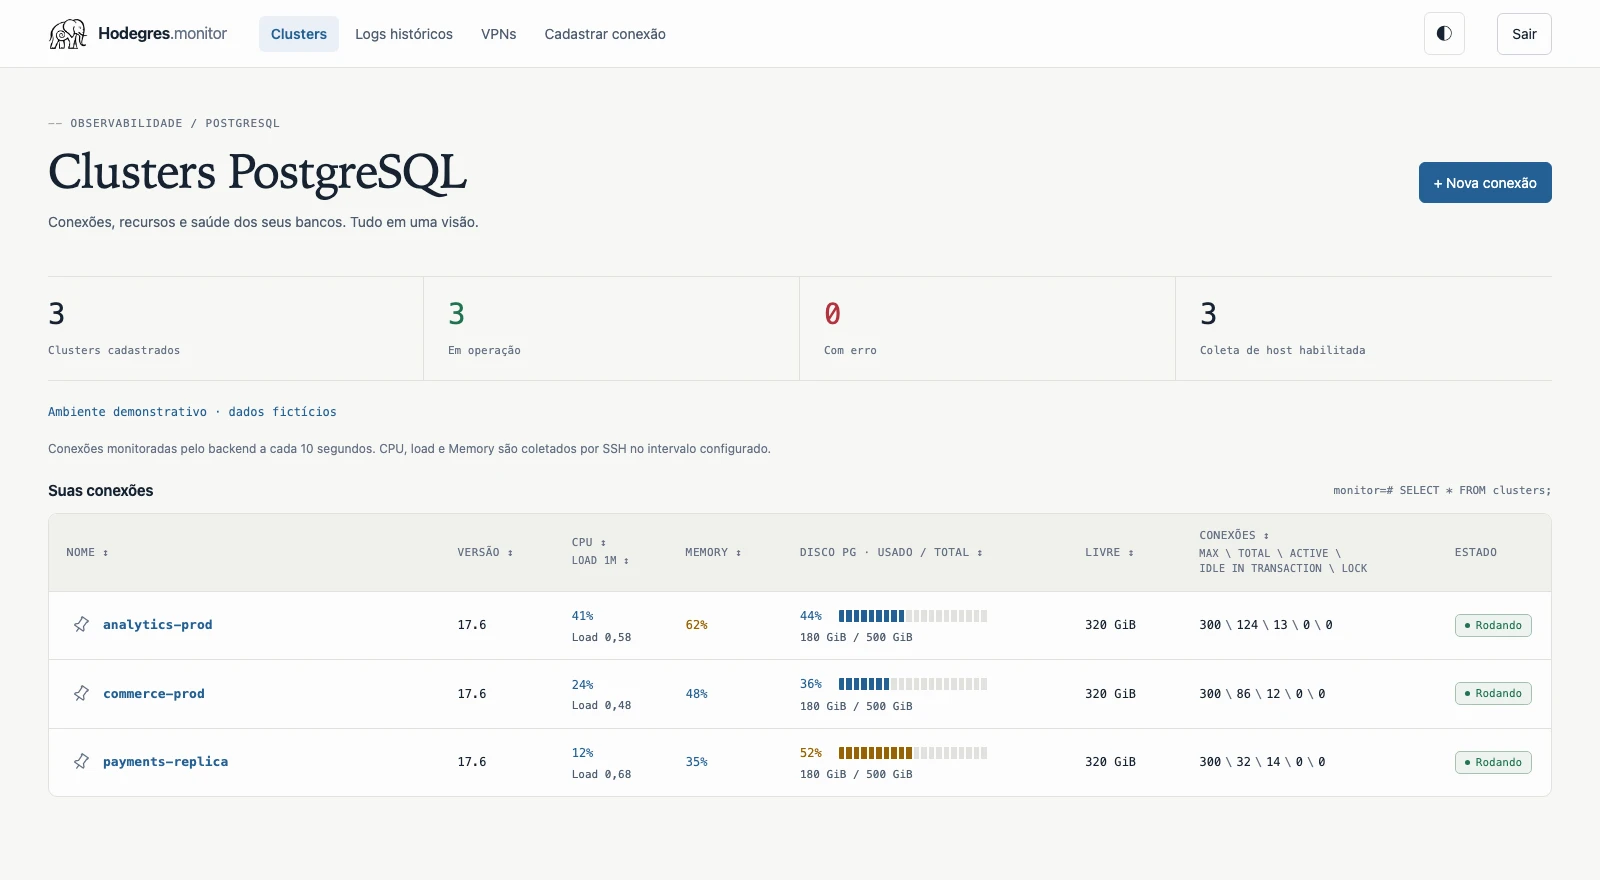
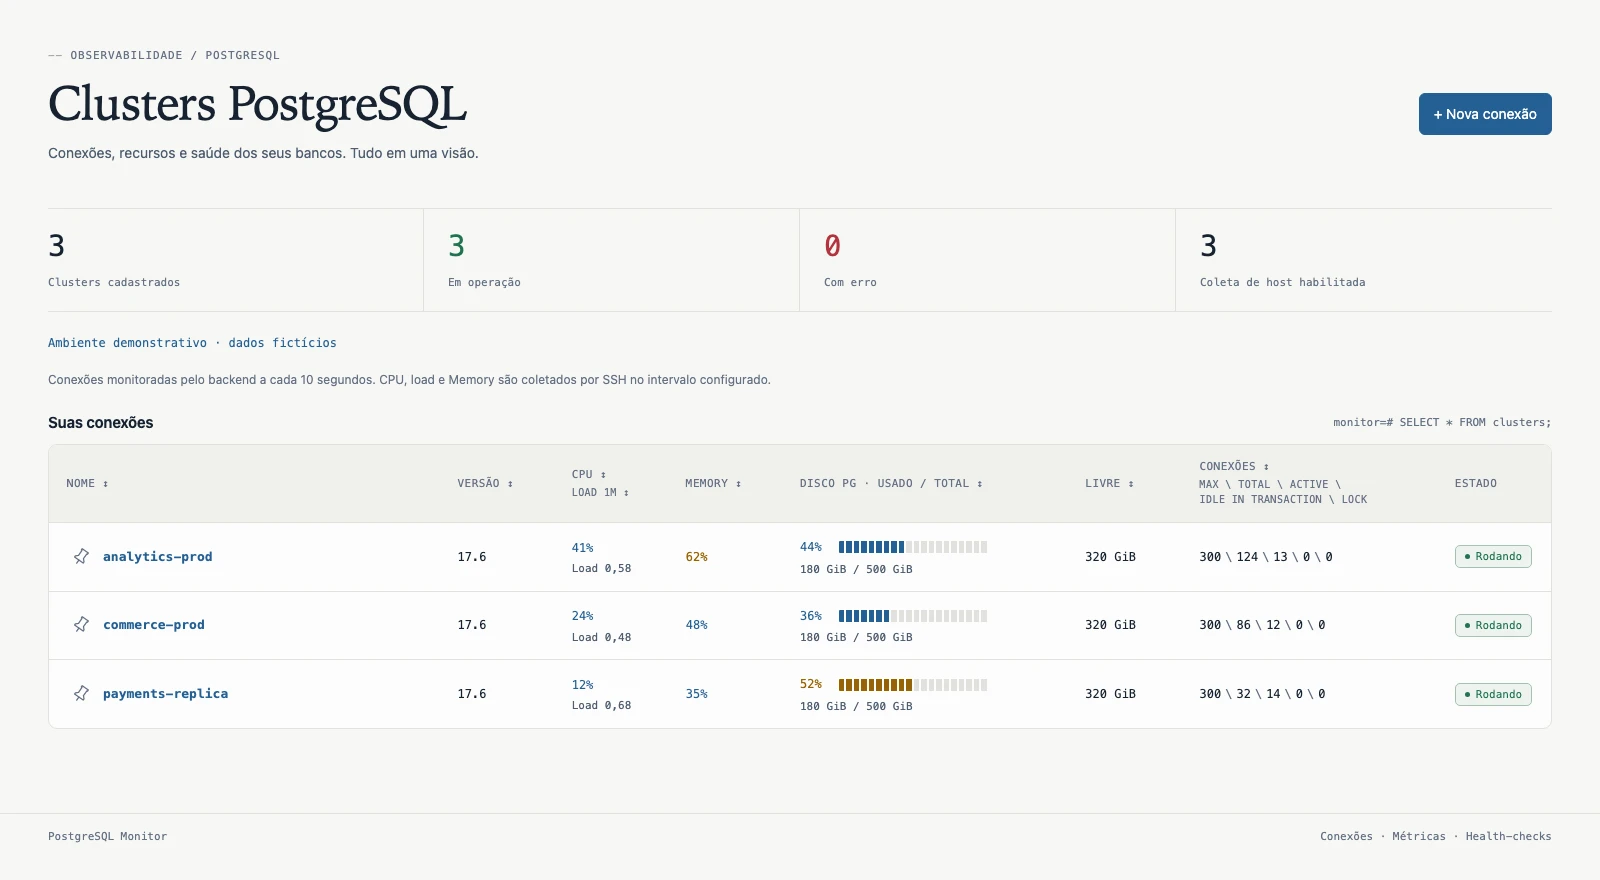
Expand monitor gallery with log and health-check examples

diff --git a/index.html b/index.html
@@ -19,7 +19,7 @@
   <a class="skip" href="#conteudo">Pular para o conteúdo</a>
   <header class="header">
     <a class="brand" href="#top" aria-label="Hodegres, início"><img src="assets/hodegres-logo.png" alt="" width="38" height="38">hodegres<span>.</span></a>
-    <nav aria-label="Navegação principal"><a href="#consultoria">consultoria</a><a href="#plataforma">hodegres.monitor</a><a href="#propostas">propostas</a></nav>
+    <details class="site-menu"><summary>Explorar <span aria-hidden="true">+</span></summary><nav aria-label="Navegação principal"><a href="#consultoria">Consultoria</a><a href="#plataforma">Hodegres.monitor</a><a href="#propostas">Propostas</a><a href="#contato">Contato</a></nav></details>
     <a class="button small" href="#contato">Vamos conversar <span aria-hidden="true">↗</span></a>
   </header>
   <main id="conteudo">
@@ -43,8 +43,13 @@
     </section>
     <section class="platform-section" id="plataforma"><div class="wrap section">
       <div class="platform-intro"><div><p class="eyebrow">02 / HODEGRES.MONITOR</p><h2>Decisões melhores<br>começam com visibilidade.</h2></div><div><span class="outline-tag">EM DESENVOLVIMENTO ATIVO</span><p>Nossa plataforma reúne informações dos clusters e ferramentas de investigação para apoiar o trabalho técnico. Do consumo de recursos ao histórico de saúde do database.</p></div></div>
-      <div class="platform-content"><div class="frame-selector" role="tablist" aria-label="Telas do Hodegres.monitor"><button type="button" id="tab-clusters" role="tab" aria-selected="true" aria-controls="frame-panel" data-frame="clusters"><span>01 / CLUSTERS</span><strong>A operação em uma visão.</strong><span>CPU, memória, disco e conexões. Contexto para identificar onde investigar.</span><span class="tab-arrow" aria-hidden="true">↗</span></button><button type="button" id="tab-health" role="tab" aria-selected="false" aria-controls="frame-panel" data-frame="health" tabindex="-1"><span>02 / HEALTH-CHECK</span><strong>Saúde com histórico.</strong><span>Snapshots do database e seções de análise de configuração, vacuum, fillfactor e bloat.</span><span class="tab-arrow" aria-hidden="true">↗</span></button><p class="platform-note">Também no projeto: consulta de logs históricos, filtros por cluster e investigação por PID.</p></div>
-      <figure class="product-window detail-window" id="frame-panel" role="tabpanel" aria-labelledby="tab-clusters"><div class="window-bar"><span class="window-dots" aria-hidden="true">● ● ●</span><span id="frame-name">hodegres.monitor / clusters</span></div><button class="image-button" id="frame-zoom" type="button" data-image="assets/monitor-clusters.webp" data-caption="Visão de clusters do Hodegres.monitor. Interface real com dados fictícios." aria-label="Ampliar tela selecionada"><img id="frame-image" src="assets/monitor-clusters.webp" alt="Visão dos clusters com métricas demonstrativas." width="1600" height="880" loading="lazy"></button><figcaption>CAPTURA DO PROJETO / DADOS FICTÍCIOS <span>Clique para ampliar ↗</span></figcaption></figure></div>
+      <div class="platform-gallery">
+        <div class="gallery-heading"><div><p class="eyebrow" id="frame-category">01 / CLUSTERS</p><h3 id="frame-title">A operação em uma visão.</h3></div><div class="gallery-controls"><span id="frame-count" aria-live="polite" aria-atomic="true">01 / 07</span><button type="button" id="frame-prev" aria-label="Ver tela anterior">←</button><button type="button" id="frame-next" aria-label="Ver próxima tela">→</button></div></div>
+        <p class="gallery-description" id="frame-description">CPU, memória, disco e conexões. Contexto para identificar onde investigar.</p>
+        <figure class="product-window detail-window" id="frame-panel" role="tabpanel" aria-labelledby="tab-clusters"><div class="window-bar"><span class="window-dots" aria-hidden="true">● ● ●</span><span id="frame-name">hodegres.monitor / clusters</span><span class="demo-label">DEMONSTRAÇÃO</span></div><button class="image-button" id="frame-zoom" type="button" data-image="assets/monitor-clusters.webp" data-caption="Visão de clusters do Hodegres.monitor. Interface real com dados fictícios." aria-label="Ampliar tela selecionada"><img id="frame-image" src="assets/monitor-clusters.webp" alt="Visão dos clusters com métricas demonstrativas." width="1600" height="880" loading="lazy"></button><figcaption>INTERFACE REAL / DADOS FICTÍCIOS <span>Clique para ampliar ↗</span></figcaption></figure>
+        <div class="gallery-tabs" role="tablist" aria-label="Telas do Hodegres.monitor"><button type="button" id="tab-clusters" role="tab" aria-selected="true" aria-controls="frame-panel" data-frame="clusters" tabindex="0"><span class="frame-number">01</span> Clusters</button><button type="button" id="tab-errors" role="tab" aria-selected="false" aria-controls="frame-panel" data-frame="errors" tabindex="-1"><span class="frame-number">02</span> Logs · erros</button><button type="button" id="tab-duration" role="tab" aria-selected="false" aria-controls="frame-panel" data-frame="duration" tabindex="-1"><span class="frame-number">03</span> Logs · duration</button><button type="button" id="tab-health" role="tab" aria-selected="false" aria-controls="frame-panel" data-frame="health" tabindex="-1"><span class="frame-number">04</span> Health-check</button><button type="button" id="tab-vacuum" role="tab" aria-selected="false" aria-controls="frame-panel" data-frame="vacuum" tabindex="-1"><span class="frame-number">05</span> Autovacuum</button><button type="button" id="tab-bloat" role="tab" aria-selected="false" aria-controls="frame-panel" data-frame="bloat" tabindex="-1"><span class="frame-number">06</span> Bloat</button><button type="button" id="tab-settings" role="tab" aria-selected="false" aria-controls="frame-panel" data-frame="settings" tabindex="-1"><span class="frame-number">07</span> Configurações</button></div>
+        <p class="gallery-note">Explore os exemplos. Cada tela usa dados fictícios para mostrar a investigação de erros, consultas demoradas e a saúde do PostgreSQL.</p>
+      </div>
     </div></section>
     <section class="wrap section" id="propostas">
       <div class="section-heading"><p class="eyebrow">03 / FORMAS DE TRABALHAR</p><h2>Uma proposta para<br>o seu momento.</h2><p>Começamos pelo que o seu ambiente precisa. Escopo, prazos e investimento são definidos após uma conversa técnica.</p></div>

diff --git a/app.js b/app.js
@@ -1,8 +1,69 @@
 // Configure a verified contact destination here before using this form for leads.
 const contactEmail = 'contato@hodegres.com';
 const frames = {
-  clusters: {src:'assets/monitor-clusters.webp',name:'clusters',alt:'Visão de clusters do Hodegres.monitor. Interface real com dados fictícios.'},
-  health: {src:'assets/monitor-health.webp',name:'health-check',alt:'Health-check do Hodegres.monitor com indicadores do database. Interface real com dados fictícios.'}
+  "clusters": {
+    "src": "assets/monitor-clusters.webp",
+    "name": "clusters",
+    "category": "CLUSTERS",
+    "title": "A operação em uma visão.",
+    "description": "CPU, memória, disco e conexões. Contexto para identificar onde investigar.",
+    "alt": "Visão de clusters do Hodegres.monitor. Interface real com dados fictícios.",
+    "height": 880
+  },
+  "errors": {
+    "src": "assets/monitor-logs-errors.webp",
+    "name": "logs / erros",
+    "category": "LOGS · ERROS",
+    "title": "Do erro ao contexto.",
+    "description": "Exemplos de chave duplicada, deadlock, timeout e conflitos de transação. Mensagem, aplicação e SQL no mesmo contexto.",
+    "alt": "Logs demonstrativos de erros PostgreSQL, com detalhes de uma chave duplicada, deadlock e timeout. Dados fictícios.",
+    "height": 900
+  },
+  "duration": {
+    "src": "assets/monitor-logs-duration.webp",
+    "name": "logs / duration",
+    "category": "LOGS · DURATION",
+    "title": "Encontre o que está demorando.",
+    "description": "Eventos de duration mostram o tempo registrado no log e a consulta associada. Um ponto de partida para investigar a carga.",
+    "alt": "Logs demonstrativos DURATION com tempos de execução e consultas SQL. Dados fictícios.",
+    "height": 900
+  },
+  "health": {
+    "src": "assets/monitor-health.webp",
+    "name": "health-check / database",
+    "category": "HEALTH-CHECK",
+    "title": "Saúde com histórico.",
+    "description": "Snapshots do database: conexões, cache hit, rollback, distribuição de tuplas e indicadores de I/O.",
+    "alt": "Health-check do database com cache hit, conexões e distribuição de tuplas. Dados fictícios.",
+    "height": 1000
+  },
+  "vacuum": {
+    "src": "assets/monitor-vacuum.webp",
+    "name": "health-check / autovacuum",
+    "category": "AUTOVACUUM",
+    "title": "Manutenção com contexto.",
+    "description": "Tuplas mortas, atividade de atualização e histórico de vacuum ajudam a orientar a revisão de manutenção.",
+    "alt": "Health-check de autovacuum com tabelas, tuplas mortas e histórico de manutenção. Dados fictícios.",
+    "height": 900
+  },
+  "bloat": {
+    "src": "assets/monitor-bloat.webp",
+    "name": "health-check / bloat",
+    "category": "BLOAT DE TABELAS",
+    "title": "Entenda o espaço das tabelas.",
+    "description": "Estimativas de bloat, tamanho do heap e fillfactor para orientar a investigação. Estimativa não é espaço garantido recuperável.",
+    "alt": "Health-check de bloat com estimativas de espaço, heap e fillfactor por tabela. Dados fictícios.",
+    "height": 900
+  },
+  "settings": {
+    "src": "assets/monitor-settings.webp",
+    "name": "health-check / configurações",
+    "category": "CONFIGURAÇÕES",
+    "title": "Configuração também é diagnóstico.",
+    "description": "Compare valores atuais, padrões da versão e contexto de aplicação dos parâmetros. Nenhuma alteração é aplicada pela tela.",
+    "alt": "Health-check de parâmetros PostgreSQL com configuração atual, padrão e contexto de aplicação. Dados fictícios.",
+    "height": 900
+  }
 };
 const tabs = [...document.querySelectorAll('[data-frame]')];
 function selectFrame(tab) {
@@ -10,7 +71,12 @@ function selectFrame(tab) {
   tabs.forEach(item => { item.setAttribute('aria-selected',String(item === tab));item.tabIndex = item === tab ? 0 : -1; });
   const image = document.querySelector('#frame-image');
   image.src = frame.src;image.alt = frame.alt;
-  image.width = 1600;image.height = tab.dataset.frame === 'health' ? 1000 : 880;
+  image.width = 1600;image.height = frame.height;
+  const position = String(tabs.indexOf(tab)+1).padStart(2,'0');
+  document.querySelector('#frame-category').textContent = position+' / '+frame.category;
+  document.querySelector('#frame-title').textContent = frame.title;
+  document.querySelector('#frame-description').textContent = frame.description;
+  document.querySelector('#frame-count').textContent = position+' / '+String(tabs.length).padStart(2,'0');
   document.querySelector('#frame-name').textContent = 'hodegres.monitor / '+frame.name;
   document.querySelector('#frame-panel').setAttribute('aria-labelledby',tab.id);
   const zoom = document.querySelector('#frame-zoom');
@@ -28,6 +94,16 @@ tabs.forEach((tab,index) => {
     event.preventDefault();selectFrame(tabs[next]);tabs[next].focus();
   });
 });
+function moveFrame(direction) {
+  const current = tabs.findIndex(tab => tab.getAttribute('aria-selected') === 'true');
+  selectFrame(tabs[(current+direction+tabs.length)%tabs.length]);
+}
+document.querySelector('#frame-prev').addEventListener('click',() => moveFrame(-1));
+document.querySelector('#frame-next').addEventListener('click',() => moveFrame(1));
+const menu = document.querySelector('.site-menu');
+menu.querySelectorAll('a').forEach(link => link.addEventListener('click',() => {menu.open=false;}));
+document.addEventListener('keydown',event => {if(event.key === 'Escape' && menu.open){menu.open=false;menu.querySelector('summary').focus();}});
+document.addEventListener('click',event => {if(!menu.contains(event.target))menu.open=false;});
 document.querySelectorAll('[data-proposal]').forEach(button => button.addEventListener('click',() => {
   document.querySelector('#interest').value = button.dataset.proposal;
   document.querySelector('#contato').scrollIntoView({behavior:matchMedia('(prefers-reduced-motion: reduce)').matches ? 'instant' : 'smooth'});

diff --git a/style.css b/style.css
@@ -7,3 +7,31 @@
 @media(prefers-reduced-motion:reduce){html{scroll-behavior:auto}*{transition:none!important}}
 .contact-email{display:inline-block;color:var(--green);font-size:11px;margin-top:22px;text-decoration:underline;text-underline-offset:4px}
 @media(max-width:700px){.proposal h3 br{display:initial}.proposal{min-width:0}.proposal-footer .button{white-space:normal}.contact-grid{grid-template-columns:minmax(0,1fr)}}
+/* Navigation stays folded while the product examples take the foreground. */
+.header .site-menu{position:relative;margin-left:auto;font-size:11px}
+.header .site-menu>summary{display:flex;align-items:center;gap:22px;padding:9px 0;list-style:none;cursor:pointer;color:var(--muted)}
+.header .site-menu>summary::-webkit-details-marker{display:none}
+.header .site-menu[open]>summary{color:var(--ink)}
+.header .site-menu[open]>summary span{transform:rotate(45deg)}
+.header .site-menu nav{position:absolute;z-index:5;top:calc(100% + 10px);right:0;display:grid;gap:0;width:205px;padding:8px;border:1px solid var(--line);background:var(--paper);box-shadow:0 12px 30px -20px #20302466;font-size:11px}
+.header .site-menu:not([open]) nav{display:none}
+.header .site-menu nav a{padding:10px 12px}
+.header .site-menu nav a:hover{background:var(--wash);text-decoration:none}
+.platform-gallery{min-width:0}
+.gallery-heading{display:flex;align-items:center;justify-content:space-between;gap:24px;border-top:1px solid #bcc8b8;padding-top:24px}
+.gallery-heading h3{font-size:21px;margin-top:10px}
+.gallery-controls{display:flex;align-items:center;gap:9px;flex-shrink:0}
+.gallery-controls>span{font-size:10px;color:var(--muted);margin-right:10px;font-variant-numeric:tabular-nums}
+.gallery-controls>button{width:35px;height:35px;border:1px solid #bdc8b8;background:transparent;color:var(--green);font-size:15px}
+.gallery-controls>button:hover{background:var(--green);border-color:var(--green);color:white}
+.gallery-description{color:var(--muted);font-size:11px;max-width:760px;margin:14px 0 24px;min-height:41px}
+.platform-gallery .detail-window .image-button{height:auto;aspect-ratio:16/9;background:#f7f7f4;overflow:hidden;display:flex;align-items:flex-start;justify-content:center}
+.platform-gallery .detail-window img{width:100%;height:100%;min-width:0;min-height:0;object-fit:contain;object-position:top}
+.gallery-tabs{display:flex;flex-wrap:wrap;gap:7px;margin-top:18px}
+.gallery-tabs>button{border:1px solid transparent;padding:9px 12px;background:transparent;font-size:10px;color:var(--muted)}
+.gallery-tabs>button:hover{border-color:#bdc8b8;color:var(--green)}
+.gallery-tabs>button[aria-selected=true]{border-color:var(--green);background:var(--paper);color:var(--green)}
+.frame-number{opacity:.6;font-size:8px;margin-right:5px}
+.gallery-note{margin-top:18px;color:var(--muted);font-size:9px;max-width:700px}
+@media(max-width:700px){.header{flex-wrap:nowrap;gap:18px}.header .brand{font-size:21px;gap:6px}.header .brand img{width:28px;height:28px}.header>.button{margin-left:0;font-size:9px;min-height:34px;gap:10px;padding:8px 10px}.header .site-menu{font-size:10px}.header .site-menu>summary{gap:10px}.header .site-menu nav{border-top:1px solid var(--line);order:initial;top:calc(100% + 14px);font-size:11px}.gallery-heading{align-items:start;gap:12px;padding-top:18px}.gallery-heading h3{font-size:17px;max-width:240px}.gallery-controls{gap:5px}.gallery-controls>span{font-size:8px;margin-right:4px}.gallery-controls>button{width:29px;height:29px;font-size:13px}.gallery-description{font-size:10px;min-height:76px;margin:14px 0 18px}.gallery-tabs{gap:5px;margin-top:13px}.gallery-tabs>button{font-size:9px;padding:8px 9px}.frame-number{font-size:7px;margin-right:3px}.gallery-note{font-size:8px}}
+@media(max-width:380px){.header{gap:12px;padding-inline:16px}.header .brand{font-size:19px}.header .brand img{width:24px;height:24px}.header>.button{gap:5px;padding-inline:7px;font-size:8px}.header .site-menu{font-size:9px}.header .site-menu>summary{gap:7px}.gallery-heading h3{font-size:16px}.gallery-controls{flex-wrap:wrap;justify-content:flex-end;max-width:66px}.gallery-controls>span{flex-basis:100%;text-align:right}}

diff --git a/README.md b/README.md
@@ -22,7 +22,7 @@ Modalidades: diagnóstico PostgreSQL, projeto de evolução e acompanhamento con
 
 ## Telas do produto
 
-As capturas de clusters e health-checks usam a interface real do Hodegres.monitor com dados inteiramente fictícios. São imagens estáticas, identificadas como demonstração. Não contêm informações de clientes e não se conectam ao backend.
+A galeria reúne sete capturas: clusters, logs de erros, logs de duration, status do database, autovacuum, bloat e configurações. As imagens usam a interface real do Hodegres.monitor com dados inteiramente fictícios. São imagens estáticas, identificadas como demonstração. Não contêm informações de clientes e não se conectam ao backend. A navegação superior do monitor fica fora do enquadramento para destacar o conteúdo. A navegação institucional fica recolhida em “Explorar”.
 
 ## Referências técnicas
 
